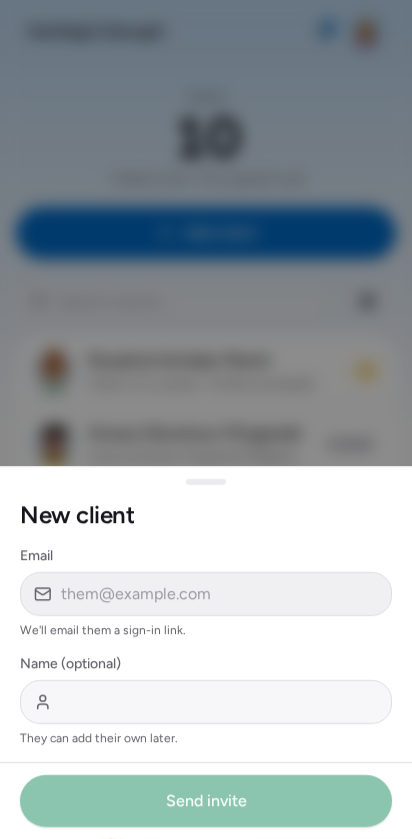
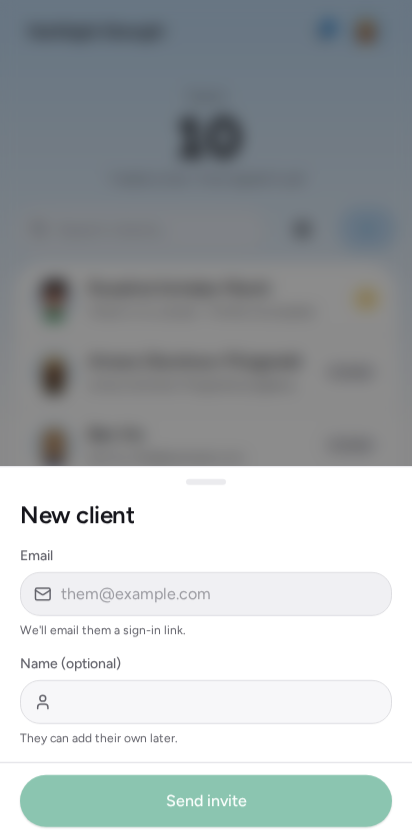
One header line, like the Library has had all along
The roster carried a full-width filled "Add client" above a separate search row.
Two rows of chrome, and the loudest thing on a screen whose subject is the list
— which it also pushed a whole row further down.

It is a tonal icon button on the header line now, beside the search and the view
toggle. The reader who needs the words is the one with an EMPTY roster, and the
empty state has carried a labelled "Add your first client" the whole time;
anybody looking at a list of people already knows how it got there. The Library
has been this shape since it was written, which is twice now that copying it
would have been better than designing it again.

The screenshot shows the whole of it: one more client fits above the fold.

The Help Center step changes with it — "Tap **Add client**" named a label that
is no longer visible text, so it now names the control the reader can actually
see. A documentation step that names a button by a string only a screen reader
gets is a step that sends people hunting.

Claude-Session: https://claude.ai/code/session_01WmbKJY5yJVfsaVYJhdTKzx

Changed region(s): [[0.0291, 0.2169, 0.9903, 0.5268], [0.6117, 0.4958, 0.699, 0.5268]]

diff --git a/apps/app/src/screens/coach/Clients.tsx b/apps/app/src/screens/coach/Clients.tsx
@@ -212,10 +212,6 @@ export function Clients() {
         <CountUp value={clients?.length ?? 0} />
       </Anchor>
 
-      <Stagger className="pb-1">
-        <Button size="lg" className="w-full" onClick={() => setCreateOpen(true)}><Plus /> Add client</Button>
-      </Stagger>
-
       {freeing && (
         <Card className="space-y-2.5 border border-primary/25" role="status" aria-live="polite">
           <div className="flex items-center gap-2 font-medium"><Users className="size-4 text-primary" /> Freeing seats for a smaller plan</div>
@@ -256,6 +252,17 @@ export function Clients() {
         view={view}
         onView={setView}
         thumb={44}
+        /*
+          A COMPACT ACTION, ON THE SAME LINE.
+
+          This was a full-width filled button sitting on its own row above the
+          search. It is the loudest thing on a screen whose subject is the
+          roster, it pushed the list a whole row further down, and the studio
+          that needs it most — one with zero clients — has a labelled button in
+          the EMPTY STATE anyway. A coach who already has a roster knows how
+          they got it. Same shape the Library has used all along.
+        */
+        action={<Button variant="tonal" aria-label="Add client" onClick={() => setCreateOpen(true)}><Plus /></Button>}
         empty={{
           icon: Users,
           title: "No clients yet",

diff --git a/UI-LANGUAGE.md b/UI-LANGUAGE.md
@@ -648,8 +648,12 @@ and then knows every list in the product.
   on every visit is a view nobody switches twice. It is a display preference —
   it survives sign-out, like the theme, and it is never account data.
 - **One header row holds them all**: search, the view toggle, and at most one
-  primary action. The Revolut pattern this borrows from puts them on one line
-  above a single grouped card, and that is the shape.
+  primary action — the last as an ICON BUTTON, not a full-width filled one. A
+  full-width primary above a collection is the loudest thing on a screen whose
+  subject is the list, and it pushes that list a whole row down. The reader who
+  needs the label is the one with an EMPTY collection, and the empty state
+  already carries a labelled button; anyone with a list in front of them knows
+  how it got there.
 - **Every collection has four states and owes all four**: loading (skeleton in
   the chosen view's geometry), empty (one line of why, one action), no-results
   (different from empty — the reader typed something, so offer to clear it), and

diff --git a/docs/help/kova/add-a-client.md b/docs/help/kova/add-a-client.md
@@ -21,11 +21,11 @@ rest themselves the first time they sign in.
 ## Add them
 
 1. Open **Clients** from the tab bar.
-2. Tap **Add client**.
+2. Tap **+** at the top right — it is labelled *Add client*.
 3. Type their email address.
 4. Tap **Send invite**.
 
-![The Clients screen, showing the roster and the Add client button.](images/coach-roster.png)
+![The Clients screen, showing the roster with search, the view toggle and the add button above it.](images/coach-roster.png)
 
 *Clients — every person you coach, with anything that needs your attention
 called out on their row. Someone who has not signed in yet shows as **Invited**.*
